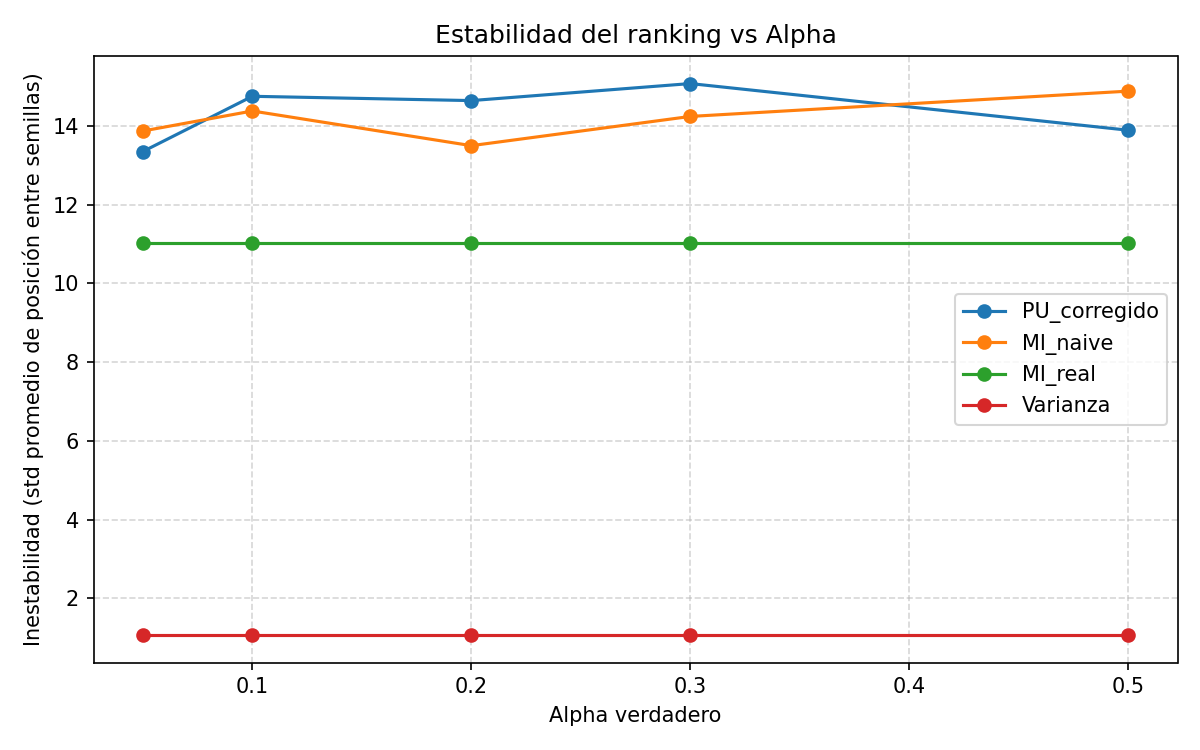
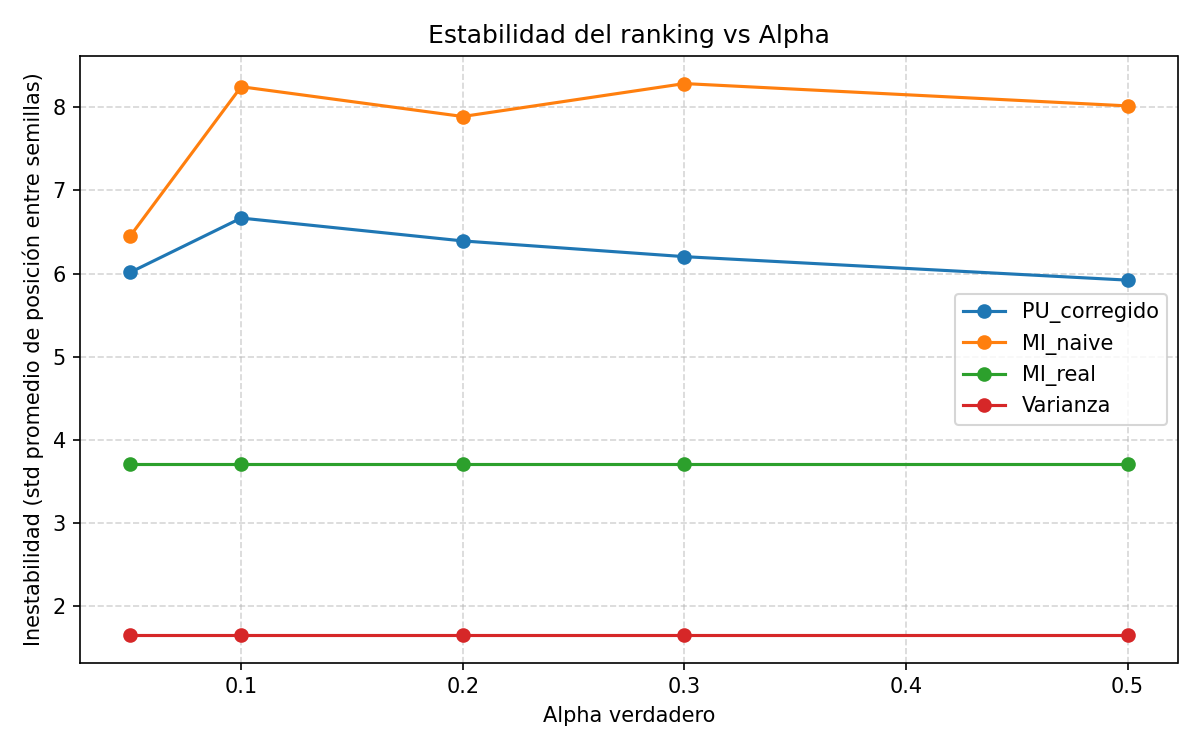
pipeline ionosphere sin ruido

diff --git a/main.py b/main.py
@@ -33,14 +33,14 @@ def _ranking_instability(rankings_list):
 
 def main():
     """Ejecuta experimento según el modo configurado (single o sweep)."""
-    sonar = fetch_openml(name='sonar', version=1, as_frame=False, parser='auto')
-    X = sonar.data.astype(float)
+    ionosphere = fetch_openml(name='ionosphere', version=1, as_frame=False, parser='auto')
+    X = ionosphere.data.astype(float)
     le = LabelEncoder()
-    y = le.fit_transform(sonar.target)  # Mine=0, Rock=1 (alfabético)
-    # Reordenar para que Mine (objeto metálico, "positivo") sea y=1
-    if le.classes_[0] == 'Mine':
+    y = le.fit_transform(ionosphere.target)  # b=0, g=1 (alfabético)
+    # Reordenar para que 'good' (g, señal válida, "positivo") sea y=1
+    if le.classes_[0] == 'g':
         y = 1 - y
-    feature_names = np.array(sonar.feature_names)
+    feature_names = np.array(ionosphere.feature_names)
 
     # En modo single se itera una sola vez; en sweep se recorre la rejilla completa
     alphas = SWEEP_ALPHAS if RUN_MODE == 'sweep' else [ALPHA_TRUE]
@@ -61,7 +61,7 @@ def main():
         n_negatives = int((y == 0).sum())
         class_balance = round(n_positives / n_samples, 4) # proporción de positivos (que tan minoritaria es la clase positiva)
 
-        mlflow.log_param("dataset",            "sonar")
+        mlflow.log_param("dataset",            "ionosphere")
         mlflow.log_param("n_samples",          n_samples)
         mlflow.log_param("n_features",         n_features)
         mlflow.log_param("n_positives",        n_positives)

diff --git a/src/config.py b/src/config.py
@@ -13,5 +13,5 @@ NOISE_LEVEL = 0
 
 # Parámetros generales
 TOP_K = 10
-EXPERIMENT_NAME = "sonar"
+EXPERIMENT_NAME = "ionosphere"
 RUN_NAME = "v1.0.0"
